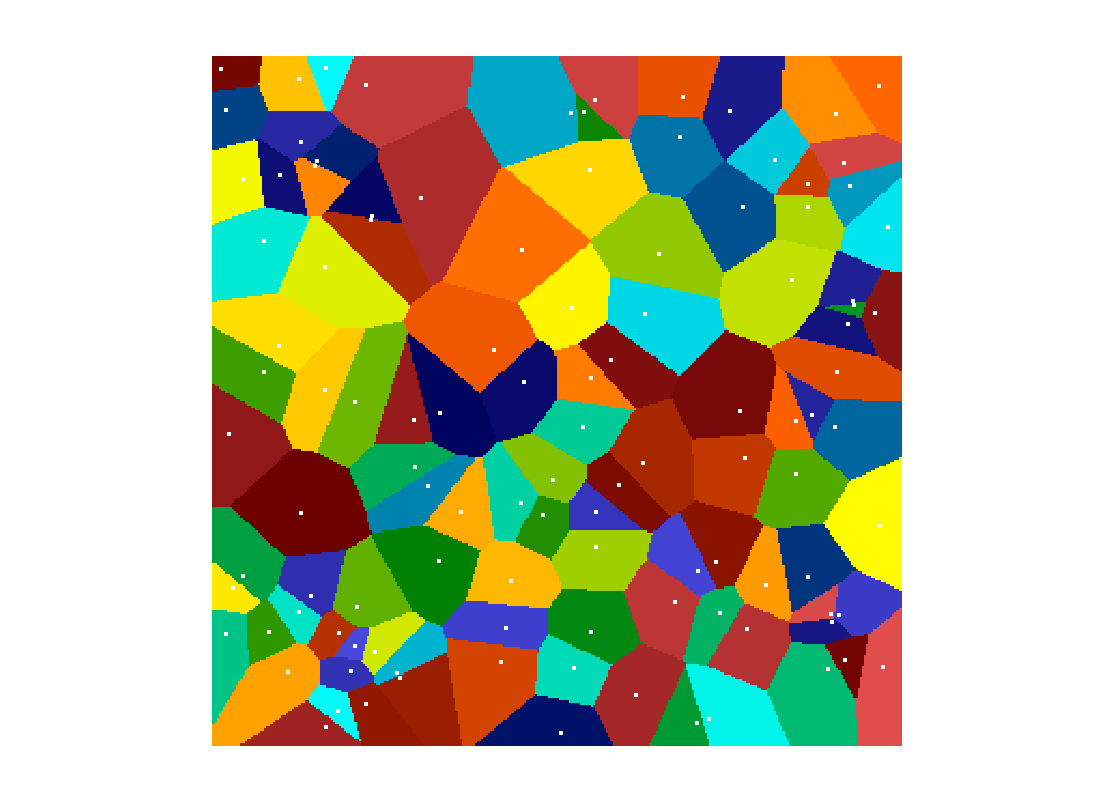
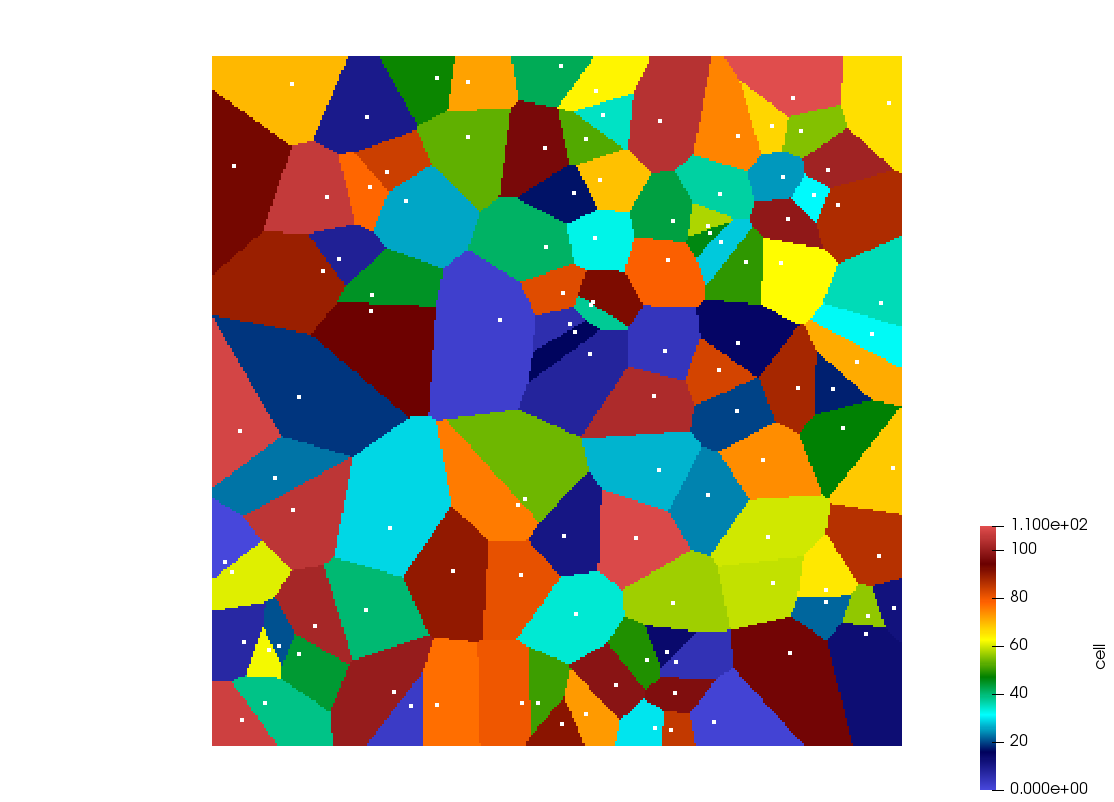
f125updt

diff --git a/python_codes/fieldstone_125/stone.py b/python_codes/fieldstone_125/stone.py
@@ -4,6 +4,10 @@ import random
 
 #################################################################
 
+print("-----------------------------")
+print("---------- stone 125 --------")
+print("-----------------------------")
+
 m=4 # number of nodes for mackground cells
 
 nelx=32
@@ -22,6 +26,9 @@ hy=Ly/nely
 nmarker_per_dim=10
 nmarker=nel*nmarker_per_dim**2
 
+print('Lx=',Lx)
+print('Ly=',Ly)
+print('nmarker_per_dim=',nmarker_per_dim)
 print('nel=',nel)
 print('NV =',NV)
 print('nmarker=',nmarker)
@@ -180,8 +187,26 @@ for im in range(0,nmarker):
 print("build Voronoi cells: %.3f s" % (time.time() - start))
 
 #################################################################
+# compute cells area
+#################################################################
+start = time.time()
+   
+area = np.zeros(nvo,dtype=np.float64)  # x coordinates
+
+marker_volume=(hx/nmarker_per_dim)*(hy/nmarker_per_dim)
+
+for im in range(0,nmarker):
+    area[swarm_cell[im]]+=marker_volume
+
+print('    -> area (m,M) = %.4f %.4f' %(np.min(area),np.max(area)))
+print('    -> sum(areas)=', np.sum(area))
+
+print("compute cells area: %.3f s" % (time.time() - start))
+
+#################################################################
 # export swarm to vtu 
 #################################################################
+start = time.time()
 
 if True:
     filename = 'swarm.vtu'
@@ -194,6 +219,11 @@ if True:
     vtufile.write("<DataArray type='Float32' Name='cell' Format='ascii'>\n")
     for i in range(0,nmarker):
         vtufile.write("%3e \n" %swarm_cell[i])
+    vtufile.write("</DataArray>\n")
+    #--
+    vtufile.write("<DataArray type='Float32' Name='area' Format='ascii'>\n")
+    for i in range(0,nmarker):
+        vtufile.write("%3e \n" %area[swarm_cell[i]])
     vtufile.write("</DataArray>\n")
     #--
     vtufile.write("</PointData>\n")
@@ -251,3 +281,4 @@ if True:
     vtufile.write("</VTKFile>\n")
     vtufile.close()
 
+print("make vtu files: %.3f s" % (time.time() - start))

diff --git a/python_codes/fieldstone_125/text.tex b/python_codes/fieldstone_125/text.tex
@@ -12,12 +12,19 @@ Code at \url{https://github.com/cedrict/fieldstone/tree/master/python_codes/fiel
 
 %--------------------------------------------------------------------------------------------
 
-
 To quote Wikipedia\footnote{\url{https://en.wikipedia.org/wiki/Voronoi_diagram}}:
 ``In mathematics, a Voronoi diagram is a partition of a plane into regions close to each of a given set of objects. 
 In the simplest case, these objects are just finitely many points in the plane (called seeds, sites, or generators). 
 For each seed there is a corresponding region, called a Voronoi cell, consisting of all points of the plane closer to 
 that seed than to any other. The Voronoi diagram of a set of points is dual to its Delaunay triangulation. ''
+
+\Literature: \textcite{may12} (2012), \textcite{hust08b} (2008).
+
+The domain is a 2D Cartesian box. A regular grid spans this domain with resolution $nelx \times nely$. 
+In each cell $nmarker\_per\_dim^2$ markers are regularly placed. 
+Finally $nvo$ seeds are randomly placed in the domain and wish to compute the Voronoi cell attached to 
+each seed. There are three test cases in the code, differing only by the number of seeds (7,27,111 respectively).
+The are of each cell is also computed (based on the area assigned to each marker).
 
 %-----------------------------
 \subsubsection*{Test \# 1}
@@ -41,7 +48,8 @@ that seed than to any other. The Voronoi diagram of a set of points is dual to i
 \subsubsection*{Test \# 3}
 
 \begin{center}
-\includegraphics[width=6cm]{python_codes/fieldstone_125/results/test3}\\
+\includegraphics[width=6cm]{python_codes/fieldstone_125/results/test3}
+\includegraphics[width=6cm]{python_codes/fieldstone_125/results/test3_area}\\
 {\captionfont Examples with 111 random seeds. Approx 310s.}
 \end{center}
 
